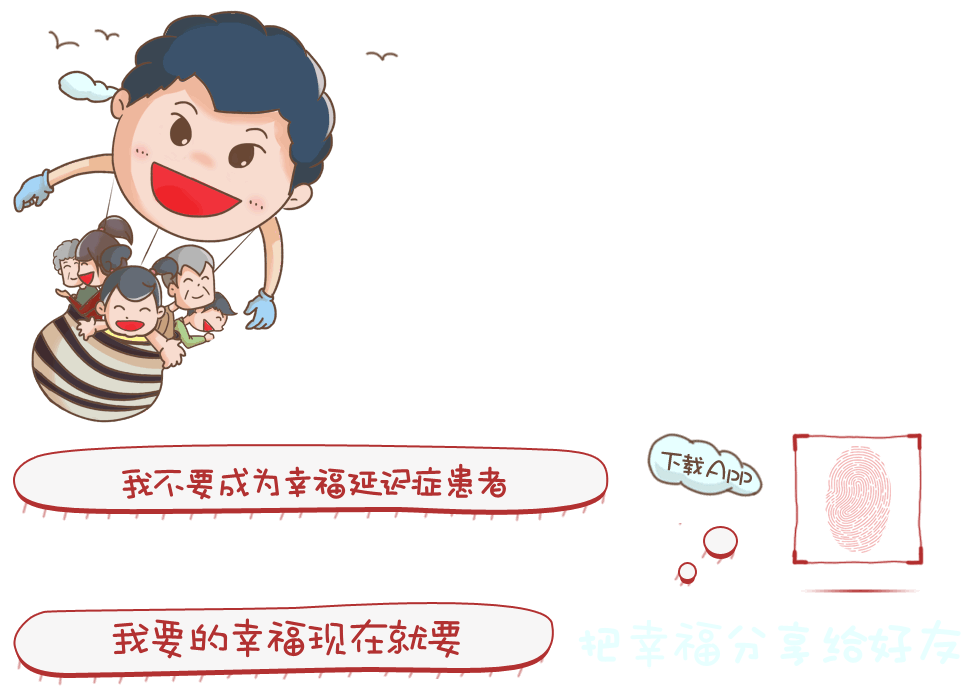
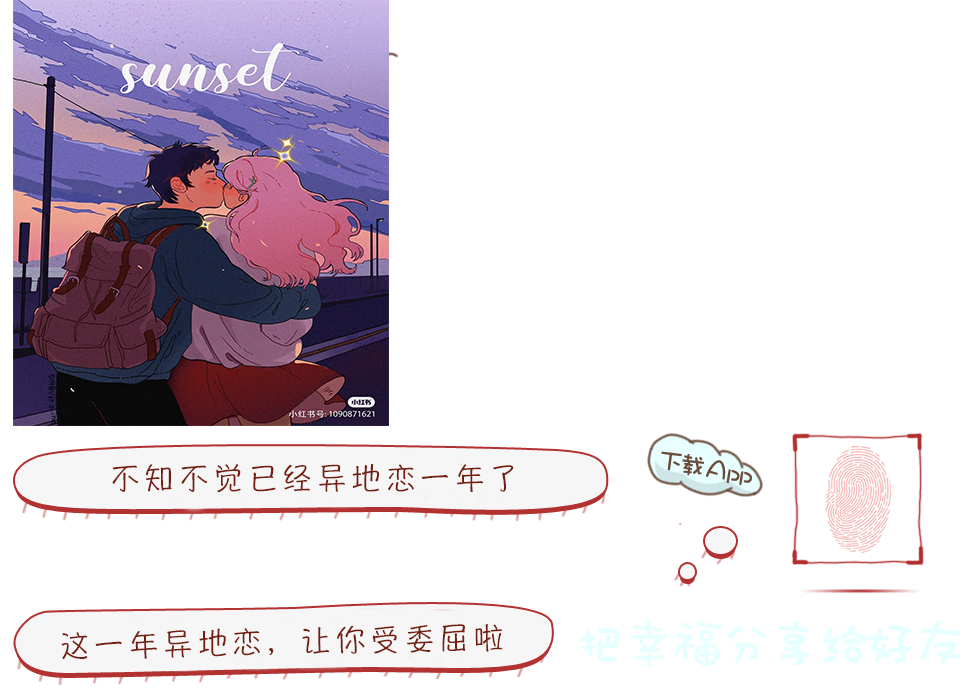
yzt

Changed region(s): [[0.0, 0.0, 0.4, 0.63], [0.0615, 0.87, 0.5231, 0.96], [0.1231, 0.66, 0.5231, 0.72]]

diff --git a/client/static/css/index.css b/client/static/css/index.css
@@ -285,6 +285,9 @@ html,body{height: 100%;overflow: hidden;}
 .page6 .point{
 	background-position: -722px -890px;
 }
+.page6 .text3{
+	background-image:url(../img/image1.png);/*变*/
+}
 
 /*页面7*/
 .page7{
@@ -333,6 +336,9 @@ html,body{height: 100%;overflow: hidden;}
 	background-position:-722px -878px;
 }
 .page8 .text3{
+	background-image:url(../img/image1.png);/*变*/
+}
+.page8 .text3{
 	width:362px;
 	height: 186px;
 	left:50%;
@@ -341,7 +347,7 @@ html,body{height: 100%;overflow: hidden;}
 }
 
 /*页面9*/
-.page9{background:#FC6F6F;}
+.page9{background:#FC6F6F;background-image:url(../img/lbj.jpg);background-size: 100% 100%;}
 .page9>div{background-image:url(../img/image5.png);}
 
 .page9 .text1,.page9 .text2,.page9 .text3{
@@ -364,8 +370,16 @@ html,body{height: 100%;overflow: hidden;}
 	height: 413px;
 	margin-left: -193px;
 	background-position:-5px -12px;
+	background-image:url(../img/lbj.jpg);background-size: 100% 100%;
 	-webkit-animation: page9_pic 1s linear alternate infinite;
 	animation: page9_pic 1s linear alternate infinite;
+}
+.page9 .text9{
+	background-image:url(../img/text.png);
+	background-size: 100% 100%;
+	width: 80%;
+	height: 50%;
+	opacity: 1;
 }
 @-webkit-keyframes page9_pic{
 	0%{top: 28%;}
@@ -404,8 +418,54 @@ html,body{height: 100%;overflow: hidden;}
 	-webkit-animation: handAnimate 1.2s linear alternate infinite;
 	animation: handAnimate 1.5s linear alternate infinite;
 }
+/*0*/
+.page0{background-image:url(../img/bj.jpg);background-size: 100% 100%;}
+/*.page0>div{background-image:url(../img/bj.jpg);}*/
+
+.page0 .text1,.page0 .text2,.page0 .text3{
+	opacity: 0;
+	-webkit-animation: none;
+	animation: none;
+}
+
+/*.page0 .text1{
+	top: 8%;
+	background-position: -14px -440px;
+	background-image:url(../img/image5.png);
+}
+.page0 .text2{
+	top: 16%;
+	background-position:-13px -595px;
+	background-image:url(../img/image5.png);
+}*/
+.page0 .text1{
+	width: 596px;
+	height: 79px;
+	left: 50%;
+	margin-left:-298px;
+	-webkit-animation:page1_text1 .8s 2s;
+	animation:page1_text1 .8s 2s;	
+	-webkit-animation-fill-mode: forwards;
+	animation-fill-mode: forwards;
+	top: 8%;
+	background-position: -14px -440px;
+	background-image:url(../img/image5.png);
+}
+.page0 .text2{
+	width:541px;
+	height: 85px;
+	left:50%;
+	margin-left: -270px;
+	-webkit-animation: page1_text2 .8s 3.5s;	
+	animation: page1_text2 .8s 3.5s;	
+	-webkit-animation-fill-mode: forwards;
+	animation-fill-mode: forwards;
+	top: 16%;
+	background-position:-13px -595px;
+	background-image:url(../img/image5.png);
+}
 @-webkit-keyframes handAnimate{
 	0%{bottom: 17.5%;}
-	100%{bottom: 27.3%;}
+	100%{bottom: 20.3%;}
 }
 

diff --git a/client/index.html b/client/index.html
@@ -23,26 +23,18 @@
 			<audio id="audio" loop="loop" autoplay="autoplay">
 				<source src="static/img/backmusic.mp3" type="audio/mp3"></source>
 			</audio>
-
-			<!--页面1-->
-			<div class="page page1" id="page1">
+			<div class="page page0">
 				<div class="arrow"><img src="static/img/arrow.png"/></div>
 				<div class="text1"></div>
 				<div class="text2"></div>
-				<div class="text3"></div>
 				<div class="pic"></div>
-				<div class="point"></div>
-			</div>	
-			
-			<!--页面2-->
-			<div class="page page2">
-				<div class="arrow"><img src="static/img/arrow.png"/></div>
-				<div class="text1"></div>
-				<div class="text2"></div>
-				<div class="text3"></div>
-				<div class="pic"></div>
-				<div class="point"></div>
+				<!-- <h1 class="info">途牛旅游邀请您按下手印<br>让幸福不再延迟</h1> -->
+				<!-- <div class="hand"></div> -->
+				<!-- <div class="hand_animate"></div> -->
 			</div>
+			
+			
+			
 			
 			<!--页面3-->
 			<div class="page page3">
@@ -83,6 +75,25 @@
 				<div class="pic"></div>
 				<div class="point"></div>
 			</div>
+
+			<!--页面1-->
+			<div class="page page1" id="page1">
+				<div class="arrow"><img src="static/img/arrow.png"/></div>
+				<div class="text1"></div>
+				<div class="text2"></div>
+				<div class="text3"></div>
+				<div class="pic"></div>
+				<div class="point"></div>
+			</div>	
+			<!--页面2-->
+			<div class="page page2">
+				<div class="arrow"><img src="static/img/arrow.png"/></div>
+				<div class="text1"></div>
+				<div class="text2"></div>
+				<div class="text3"></div>
+				<div class="pic"></div>
+				<div class="point"></div>
+			</div>
 			
 			<!--页面7-->
 			<div class="page page7">
@@ -106,12 +117,13 @@
 			
 			<!--页面9-->
 			<div class="page page9">
-				<div class="text1"></div>
-				<div class="text2"></div>
-				<div class="pic"></div>
-				<h1 class="info">途牛旅游邀请您按下手印<br>让幸福不再延迟</h1>
-				<div class="hand"></div>
-				<div class="hand_animate"></div>
+				<div class="text9"></div>
+				<!-- <div class="text1"></div> -->
+				<!-- <div class="text2"></div> -->
+				<!-- <div class="pic"></div> -->
+				<!-- <h1 class="info">途牛旅游邀请您按下手印<br>让幸福不再延迟</h1> -->
+				<!-- <div class="hand"></div> -->
+				<!-- <div class="hand_animate"></div> -->
 			</div>
 			
 		</div>

diff --git a/client/static/js/main.js b/client/static/js/main.js
@@ -85,20 +85,30 @@ function init(){
 	
 
 	//点击音乐按钮
-	var aud=document.getElementById('audio');
-	var music=document.querySelector('.music');
-	var self = this
-	// setTimeout(function(){ $(self).toggleClass('music_mute'); aud.play();}, 1000);
-	// this.setInterval("clock()",1000);
+	window.onload=function(){ 
+		var aud=document.getElementById('audio');
 
-	music.addEventListener('touchstart',function(){
-		$(this).toggleClass('music_mute');
-		
-	    if(aud.paused){
-	        aud.play();
-	    }else{
-	       aud.pause();
-	    }
-	},false);
+		var music=document.querySelector('.music');
+		var self = this
+		// setTimeout(function(){ $(self).toggleClass('music_mute'); aud.play();}, 1000);
+		// this.setInterval("clock()",1000);
+
+		console.log(aud);
+
+		setTimeout(function(){
+			// music.click();
+			aud.play();
+		},1000)
+		music.addEventListener('touchstart',function(){
+
+			$(this).toggleClass('music_mute');
+			// console.log(aud.paused)
+		    if(aud.paused){
+		        aud.play();
+		    }else{
+		       aud.pause();
+		    }
+		},false);
+	}
 
 }

diff --git a/client/static/js/preLoad.js b/client/static/js/preLoad.js
@@ -15,7 +15,7 @@ function preLoad(back){
 			barPercent.style.width=percentNum;
 			if(nums==arr.length){
 				preload.style.display='none';
-				$('.page1').css('display','block');
+				$('.page0').css('display','block');
 				init();
 			}
 			// preload.style.display='none';

diff --git a/client/static/css/reset.css b/client/static/css/reset.css
@@ -31,6 +31,8 @@ q:before,q:after {
 	content: '';
 	clear: both;
 	display: block;
+
+    
 }
 abbr,acronym { 
     border: 0; 
